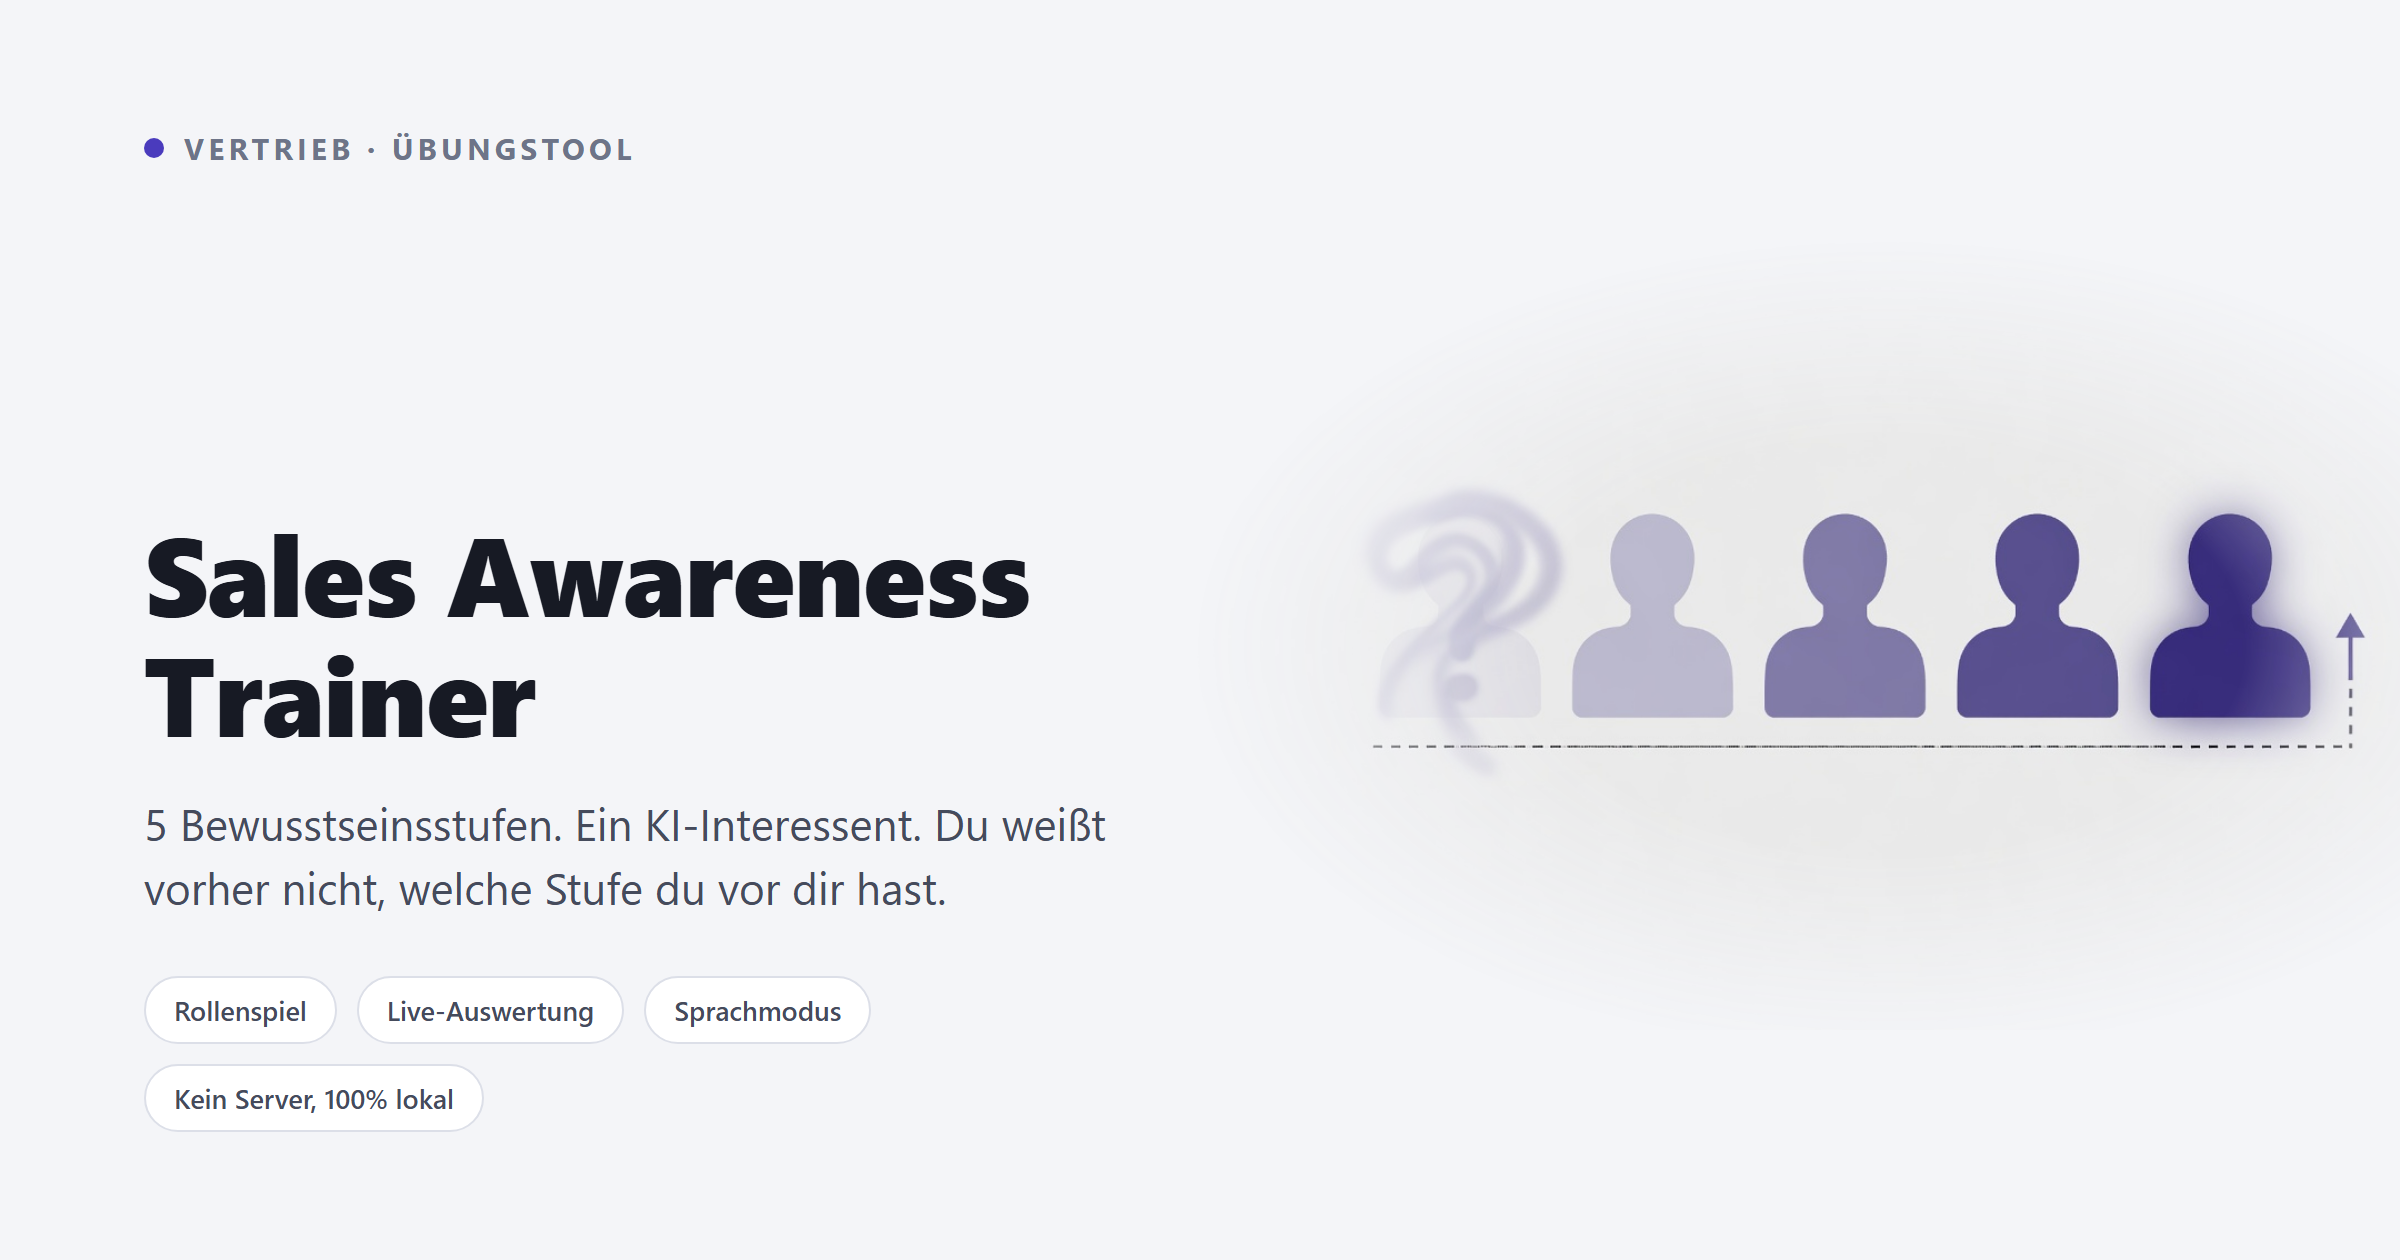
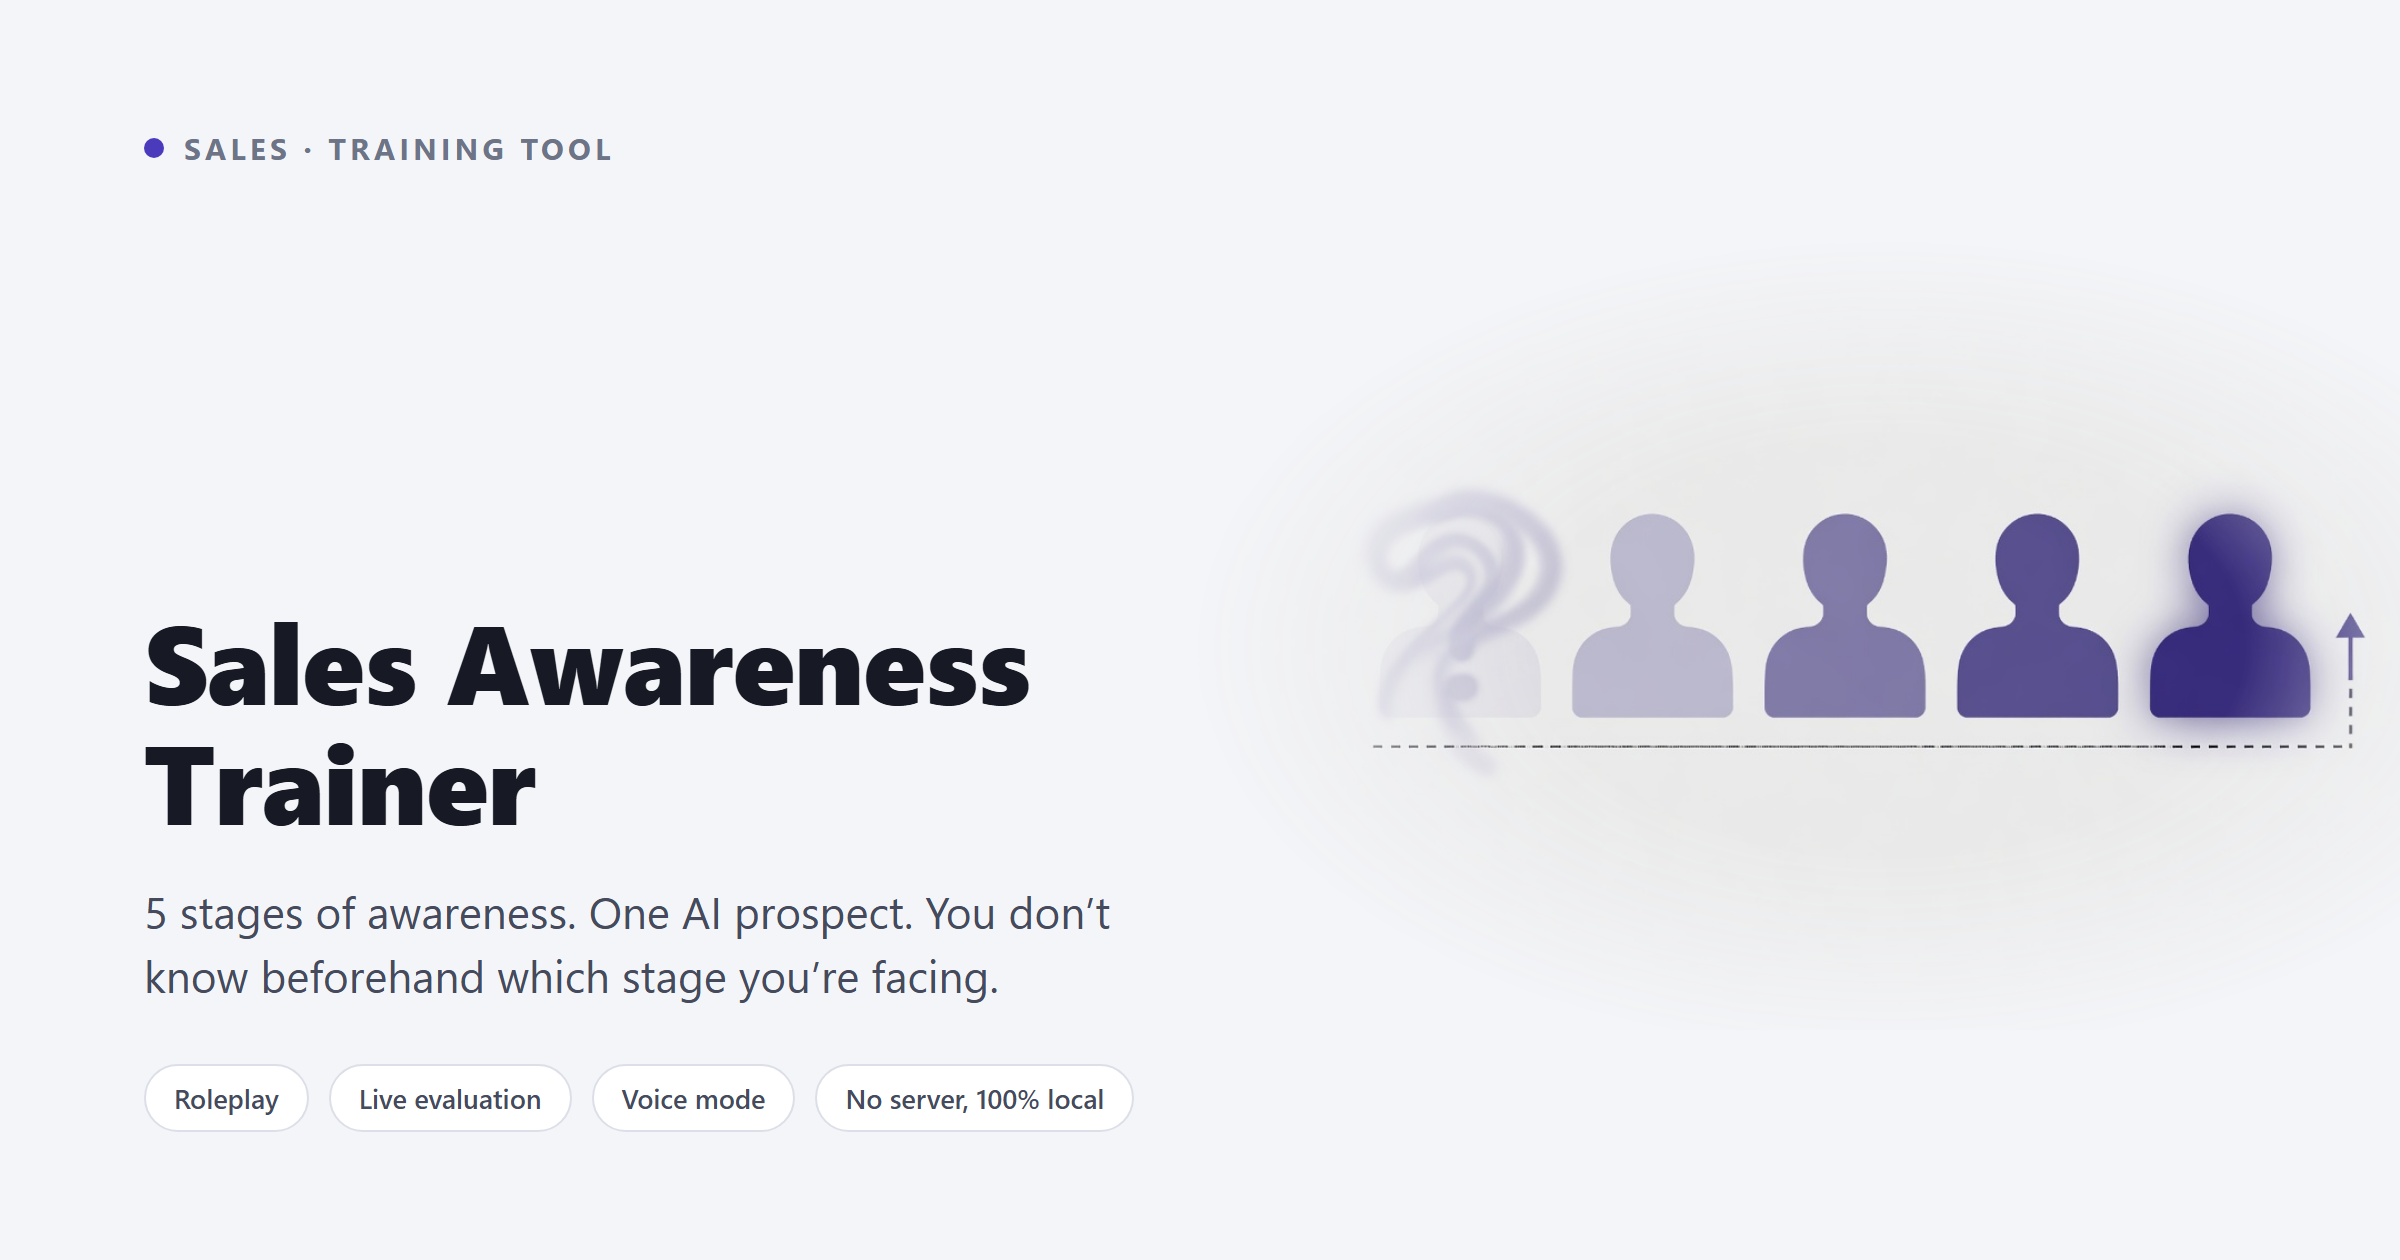
feat: switch cover text to English

diff --git a/assets/cover-src.html b/assets/cover-src.html
@@ -1,5 +1,5 @@
 <!doctype html>
-<html lang="de"><head><meta charset="utf-8"><style>
+<html lang="en"><head><meta charset="utf-8"><style>
   *{margin:0;padding:0;box-sizing:border-box}
   :root{
     --ground:#f4f5f8; --ink:#171a24; --ink-2:#454b5c; --ink-3:#6d7488;
@@ -28,17 +28,17 @@
   <div class="frame">
     <div class="top">
       <div class="dot"></div>
-      <div class="kicker">Vertrieb &middot; &Uuml;bungstool</div>
+      <div class="kicker">Sales &middot; Training Tool</div>
     </div>
 
     <div class="hl">
       <div class="title">Sales Awareness<br>Trainer</div>
-      <div class="sub">5 Bewusstseinsstufen. Ein KI-Interessent. Du wei&szlig;t vorher nicht, welche Stufe du vor dir hast.</div>
+      <div class="sub">5 stages of awareness. One AI prospect. You don&rsquo;t know beforehand which stage you&rsquo;re facing.</div>
       <div class="badges">
-        <div class="badge">Rollenspiel</div>
-        <div class="badge">Live-Auswertung</div>
-        <div class="badge">Sprachmodus</div>
-        <div class="badge">Kein Server, 100% lokal</div>
+        <div class="badge">Roleplay</div>
+        <div class="badge">Live evaluation</div>
+        <div class="badge">Voice mode</div>
+        <div class="badge">No server, 100% local</div>
       </div>
     </div>
   </div>
